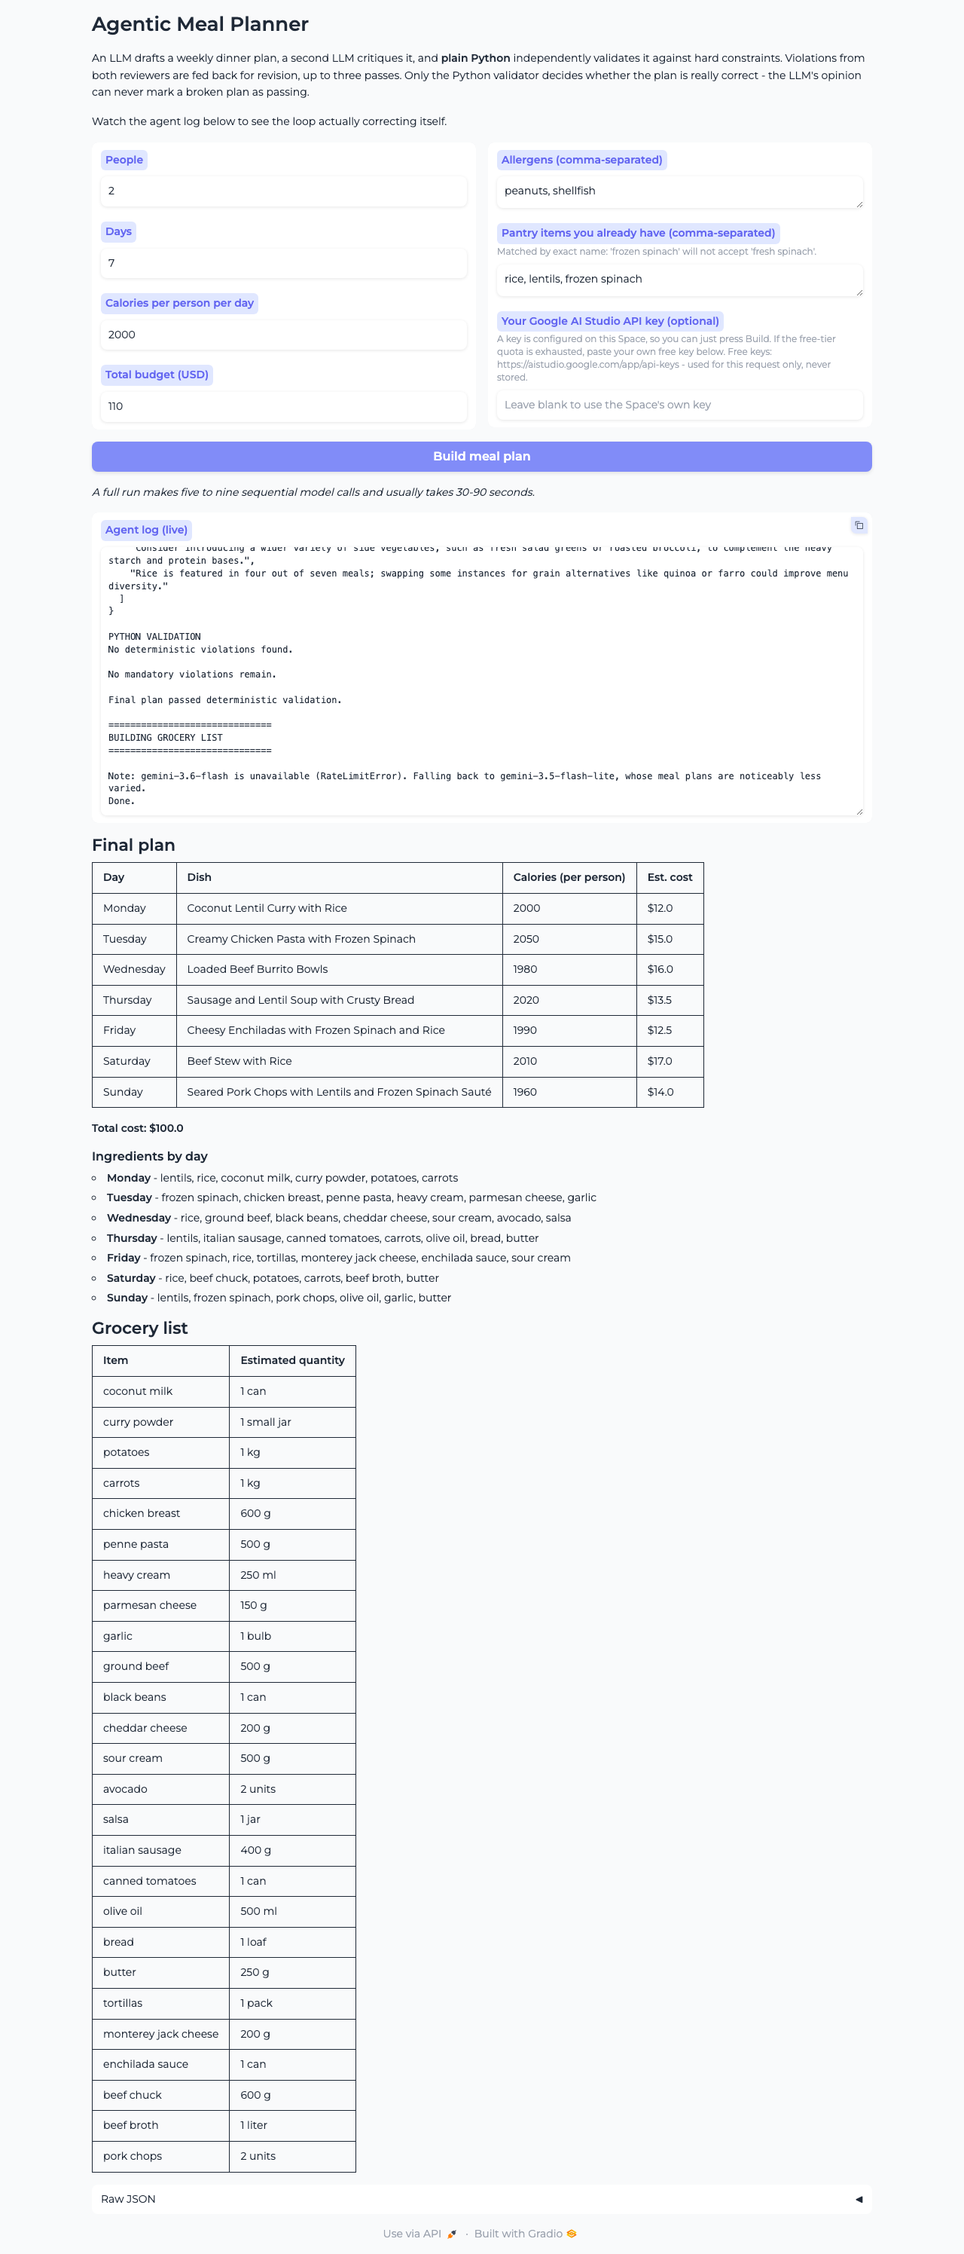
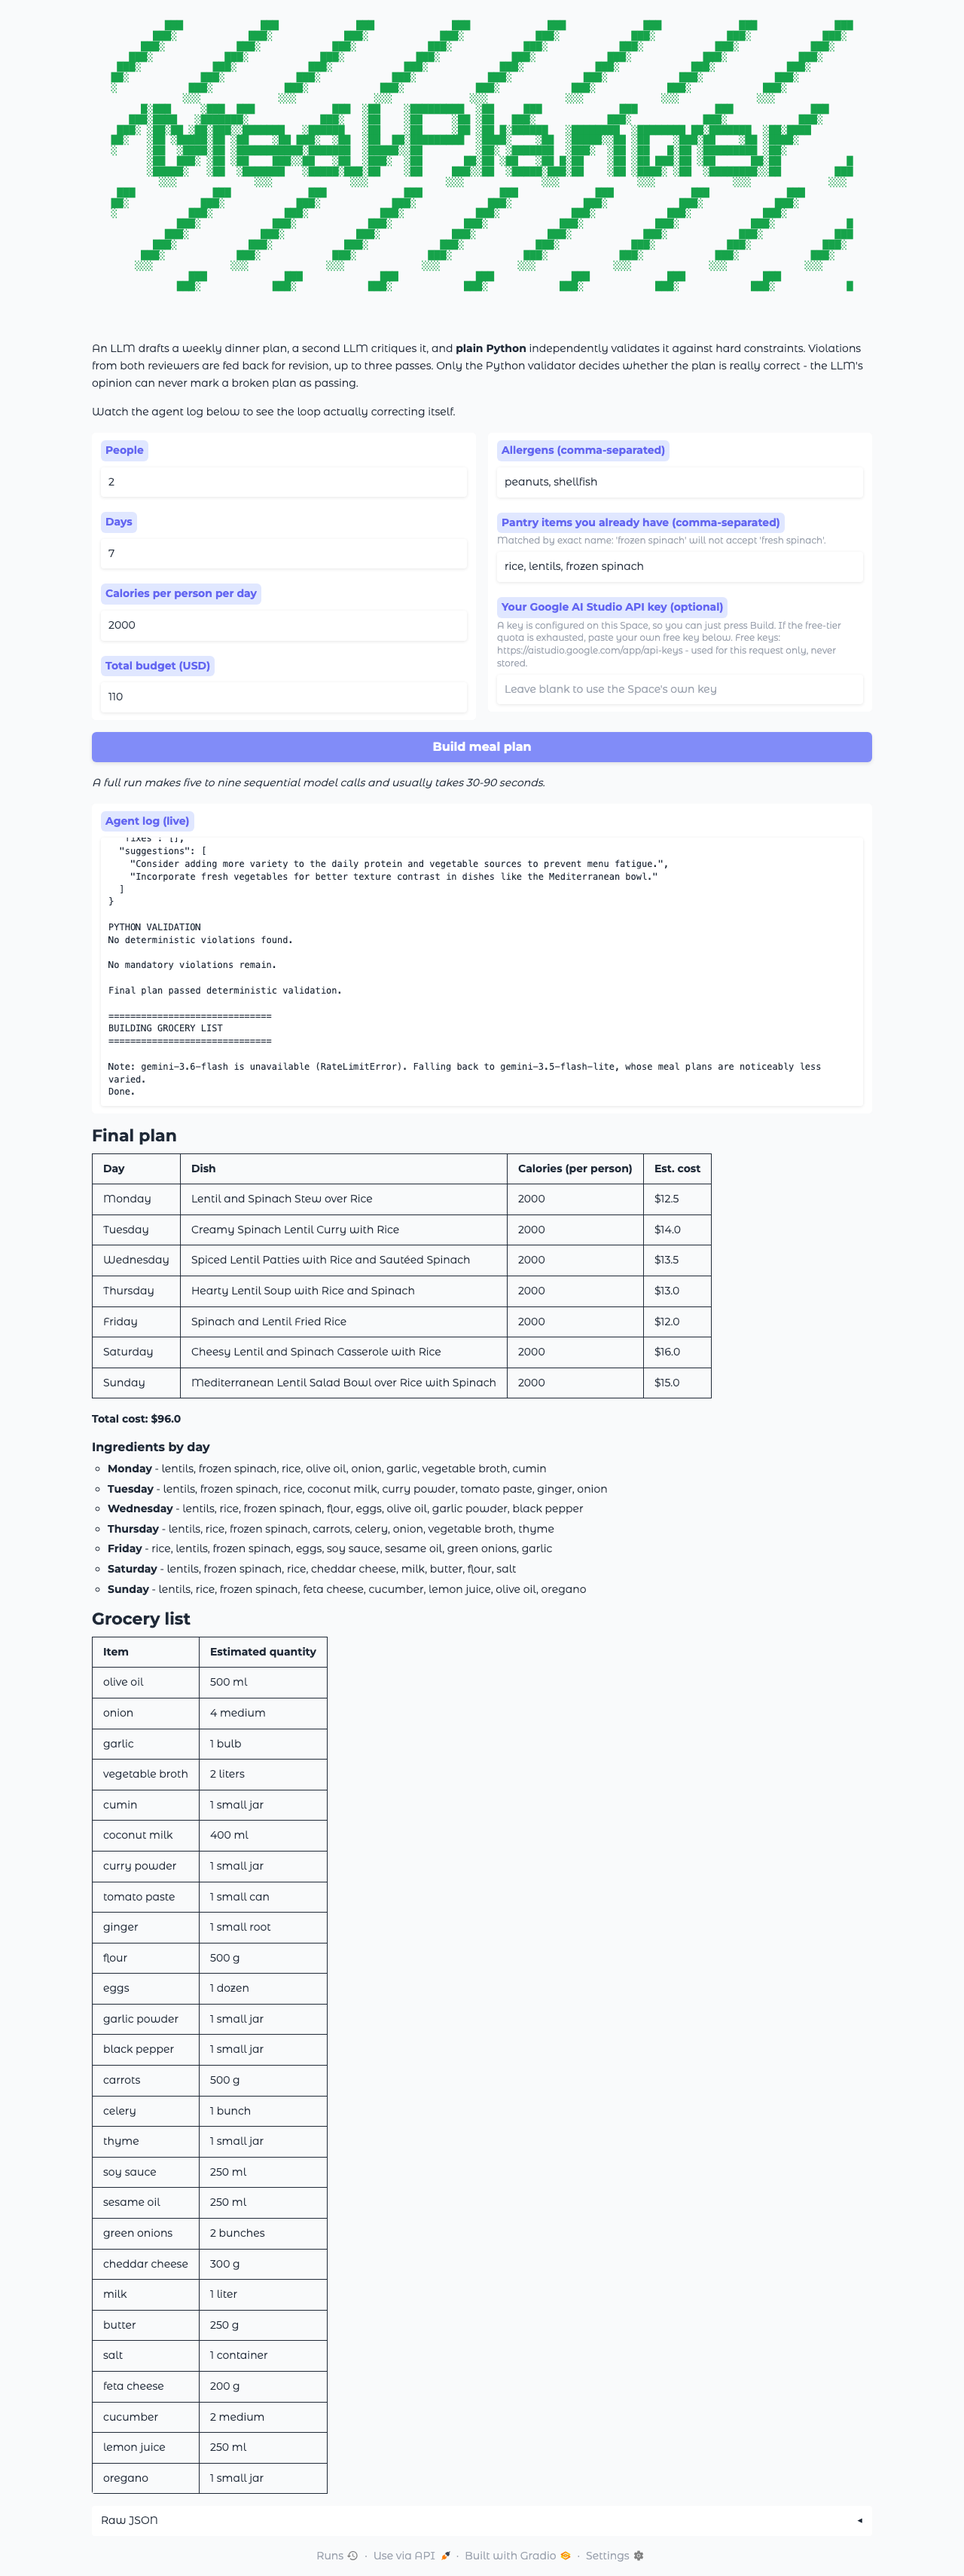
Use the ASCII wordmark as the page heading
Replaces the plain "# Agentic Meal Planner" markdown heading with the
supplied ASCII art, following the same approach as the quiz generator:
the art is 124 columns wide, so the font-size is expressed in
container-query width units and always scales to fit exactly rather than
forcing a horizontal scrollbar. Below 700px it would be unreadable, so a
plain text title replaces it.

The art lives in its own module. It only reads correctly if every
leading space survives, and 26 rows of 124 columns is too much to keep
inline; the width is derived from the module rather than duplicated, so
the CSS cannot drift from the art.

Verified at 1280px and 480px: the art fits its container, neither width
scrolls horizontally, and the mobile breakpoint swaps in the text title.
Screenshot regenerated. Dropped the stale empty-form capture, which
showed the old header and was referenced nowhere.

Changed region(s): [[0.0938, 0.0, 0.9062, 0.995], [0.3125, 0.7773, 0.3438, 0.8395], [0.4062, 0.1244, 0.4375, 0.1555]]

diff --git a/logo.py b/logo.py
@@ -1,0 +1,39 @@
+"""ASCII-art wordmark used as the page heading.
+
+Kept in its own module because it is 26 lines of exactly 124 columns, and the
+diagonal pattern only reads correctly if every leading space survives. The
+width is baked into the font-size calculation in app.py, so changing the art
+means rechecking that number.
+"""
+
+WIDTH = 124
+HEIGHT = 26
+
+# The first row begins immediately after the opening quotes on purpose: a
+# newline there would add a blank line to the art.
+LOGO = r"""         ███             ███             ███             ███             ███             ███             ███             ███
+       ███░            ███░            ███░            ███░            ███░            ███░            ███░            ███░ 
+     ███░            ███░            ███░            ███░            ███░            ███░            ███░            ███░   
+   ███░            ███░            ███░            ███░            ███░            ███░            ███░            ███░     
+ ███░            ███░            ███░            ███░            ███░            ███░            ███░            ███░       
+██░            ███░            ███░            ███░            ███░            ███░            ███░            ███░         
+░            ███░            ███░            ███░            ███░            ███░            ███░            ███░           
+            ░░░             ░░░             ░░░             ░░░             ░░░             ░░░             ░░░             
+     █░███     ░███  ███             ███  ░██    ░█████████  ░██     ███             ███             ███             ███    
+   ███░████   ░███████░            ███░   ░██    ░██     ░██ ░██   ███░            ███░            ███░            ███░     
+ ███░ ░██░██ ░██░███░░███████   ░██████   ░██    ░██     ░██ ░██ █░██████   ░████████  ░████████ ██░███████  ░██░████       
+██░   ░██ ░█████░██ ░██    ░██ ███░  ░██  ░██  ██░█████████  ░████░    ░██  ░█████░░██ ░██    ░███░██    ░██ ░████░         
+░     ░██  ░████░██ ░███████████░███████  ░█████░░██         ░██░ ░███████  ░███░  ░██ ░██   █░██ ░█████████ ░██░           
+      ░██  ███░ ░██ ░██    ███░░██   ░██  ░███░  ░██       ██░██ ░██   ░██ █░██    ░██ ░██ ███░██ ░██      ██░██           █
+      ░█████░   ░██  ░███████   ░█████░███░██    ░██     ███░░██  ░█████░███░██    ░██ ░████░ ░██  ░████████░░██         ███
+        ░░░             ░░░             ░░░             ░░░             ░░░             ░░░             ░░░             ░░░ 
+ ███             ███             ███             ███             ███             ███             ███             ███        
+██░            ███░            ███░            ███░            ███░            ███░            ███░            ███░         
+░            ███░            ███░            ███░            ███░            ███░            ███░            ███░           
+           ███░            ███░            ███░            ███░            ███░            ███░            ███░            █
+         ███░            ███░            ███░            ███░            ███░            ███░            ███░            ███
+       ███░            ███░            ███░            ███░            ███░            ███░            ███░            ███░ 
+     ███░            ███░            ███░            ███░            ███░            ███░            ███░            ███░   
+    ░░░             ░░░             ░░░             ░░░             ░░░             ░░░             ░░░             ░░░     
+             ███             ███             ███             ███             ███             ███             ███            
+           ███░            ███░            ███░            ███░            ███░            ███░            ███░            █"""

diff --git a/app.py b/app.py
@@ -19,6 +19,7 @@ import threading
 
 import gradio as gr
 
+from logo import LOGO, WIDTH as LOGO_WIDTH
 from meal_planner import (
     MissingAPIKey,
     QuotaExhausted,
@@ -221,13 +222,47 @@ def run_planner(
     )
 
 
+# The wordmark is LOGO_WIDTH characters wide. Rather than let it overflow and
+# force horizontal scrolling, the font-size is expressed in container-query
+# width units so the art always scales to exactly fit: a monospace glyph is
+# ~0.6em wide, so the art spans LOGO_WIDTH * 0.6 em, meaning
+# 100cqw / (LOGO_WIDTH * 0.6) per character fills the container exactly.
+# Slightly under that leaves a margin. Below 700px the art would be
+# unreadably small, so a plain text title is shown instead.
+_LOGO_CQW = round(100.0 / (LOGO_WIDTH * 0.6) * 0.97, 3)
+
 CSS = """
 .gradio-container { max-width: 1100px !important; margin: 0 auto !important; }
+#logo-wrap {
+  container-type: inline-size;
+  text-align: center;
+  overflow: hidden;
+}
+#logo-wrap pre {
+  display: inline-block;
+  text-align: left;
+  font-family: ui-monospace, SFMono-Regular, Menlo, Consolas, monospace;
+  font-size: 10px;               /* fallback if cqw is unsupported */
+  font-size: min(%(cqw)scqw, 15px);
+  line-height: 1.05;
+  color: #16a34a;
+  white-space: pre;
+  margin: 0;
+  border: none;
+  background: none;
+  padding: 0;
+}
+#logo-fallback { display: none; text-align: center; }
+#logo-fallback h1 { font-size: 30px; font-weight: 700; color: #16a34a; margin: 0; }
+@media (max-width: 700px) {
+  #logo-wrap { display: none; }
+  #logo-fallback { display: block; }
+}
 #agent-log textarea {
   font-family: ui-monospace, SFMono-Regular, Menlo, Consolas, monospace;
   font-size: 12px;
 }
-"""
+""" % {"cqw": _LOGO_CQW}
 
 SECRET_IS_SET = bool(os.environ.get("GOOGLE_API_KEY"))
 
@@ -254,7 +289,10 @@ LAUNCH_STYLE = _STYLE if _LAUNCH_TAKES_STYLE else {}
 
 with gr.Blocks(title="Agentic Meal Planner", **BLOCKS_STYLE) as demo:
 
-    gr.Markdown("# Agentic Meal Planner")
+    # The art contains no HTML-special characters, so it needs no escaping;
+    # it does need <pre> to keep its spacing.
+    gr.HTML("<div id='logo-wrap'><pre>%s</pre></div>" % LOGO)
+    gr.HTML("<div id='logo-fallback'><h1>Agentic Meal Planner</h1></div>")
     gr.Markdown(
         "An LLM drafts a weekly dinner plan, a second LLM critiques it, and "
         "**plain Python** independently validates it against hard constraints. "
